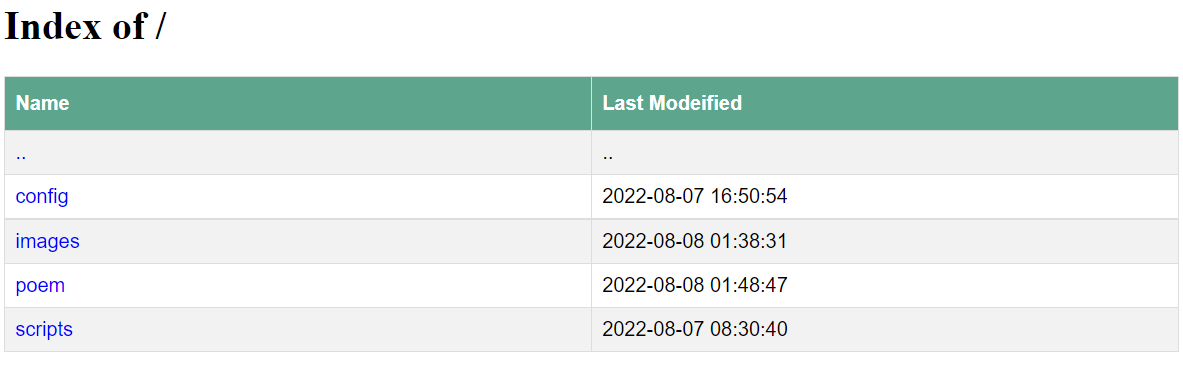
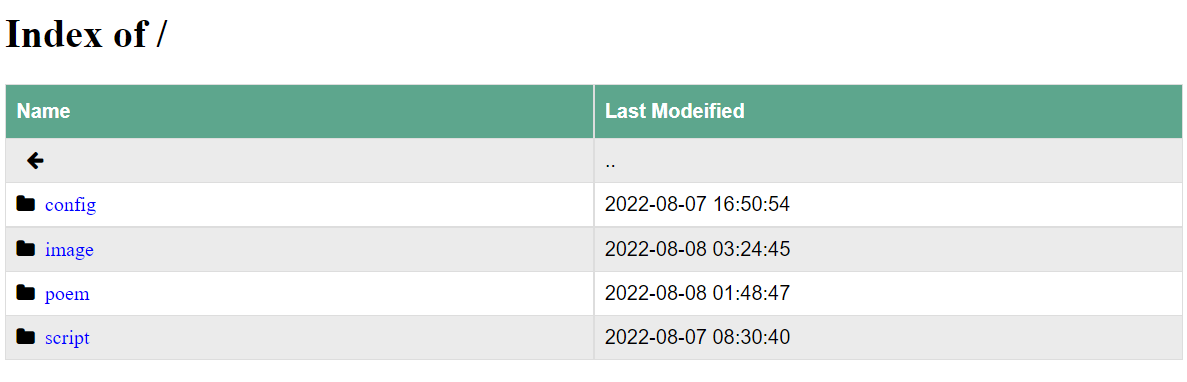
Beautify webpage

diff --git a/ghpages-fileserver.py b/ghpages-fileserver.py
@@ -4,8 +4,9 @@ import datetime
 
 src_path = './src/'
 public_path = './public/'
+image_path = './image/'
 all_files = {}
-index_head = '<!DOCTYPE html><html lang="en"><head><title>File Server</title><meta name="viewport" content="width=device-width, initial-scale=1" /><style>table {font-family: Arial, Helvetica, sans-serif;border-collapse: collapse;width: 100%;}table td,table th {border: 1px solid #ddd;padding: 8px;}table tr:nth-child(even) {background-color: #f2f2f2;}table th {padding-top: 12px;padding-bottom: 12px;text-align: left;background-color: #5da68d;color: white;}a {color: blue;text-decoration:none}</style></head><body><h1>Index of '
+index_head = '<!DOCTYPE html><html lang="en"><head><title>File Server</title><meta name="viewport" content="width=device-width, initial-scale=1" /><link rel="icon" type="image/png" href="favicon.png"><link rel="stylesheet" href="https://cdnjs.cloudflare.com/ajax/libs/font-awesome/4.7.0/css/font-awesome.min.css" /><style>table {font-family: Arial, Helvetica, sans-serif;border-collapse: collapse;width: 100%;}table td,table th {border: 1px solid #ddd;padding: 8px;}table tr:nth-child(even) {background-color: #ebebeb;}table th {padding-top: 12px;padding-bottom: 12px;text-align: left;background-color: #5da68d;color: white;}a {color: blue;text-decoration:none;padding: 8px;}</style></head><body><h1>Index of '
 
 
 # Get all directroy files
@@ -16,6 +17,7 @@ def get_files(path):
             get_files(path+file+'/')
 
 
+# Copy files
 get_files(src_path)
 if os.path.exists(public_path):
     shutil.rmtree(os.getcwd()+public_path)
@@ -29,33 +31,36 @@ for dir in all_files.keys():
     else:
         if not os.path.exists(dir.replace(src_path, public_path)):
             os.makedirs(dir.replace(src_path, public_path))
+    if not os.path.exists(dir.replace(src_path, public_path)+'favicon.png'):
+        shutil.copyfile(os.getcwd()+'/'+image_path+'favicon.png',
+                        os.getcwd()+'/'+dir.replace(src_path, public_path)+'favicon.png')
 
 # Generate html files
 for dir in all_files.keys():
     # Table header
     index = index_head + dir.replace(src_path, '/') + \
-        '</h1><table><tbody><tr><th style="width:50%">Name</th><th>Last Modeified</th></tr>'
+        '</h1><table><tr><th style="width:50%">Name</th><th>Last Modeified</th></tr>'
 
     # Add return link
     if len(dir.split('/')) == 3:
-        index += '<tr><td><a href="./index.html">..</a></td><td>..</td></tr>'
+        index += '<tr><td><a href="./index.html" style="color: black"><i class="fa fa-arrow-left"></i></a></td><td>..</td></tr>'
     else:
-        index += '<tr><td><a href="../index.html">..</a></td><td>..</td></tr>'
+        index += '<tr><td><a href="../index.html" style="color: black"><i class="fa fa-arrow-left"></a></td><td>..</td></tr>'
 
     # Table body
     for file in all_files[dir]:
         # Next Folder Link
         if os.path.isdir(dir+file):
-            index += '<tr><td><a href="./'+file+'/' + \
+            index += '<tr><td><i class="fa fa-folder"><a href="./'+file+'/' + \
                 'index.html">'+file+'</a></td><td>'
         # Currnet file link
         else:
-            index += '<tr><td><a href="./'+file+'">'+file+'</a></td><td>'
+            index += '<tr><td><i class="fa fa-file"><a href="./'+file+'">'+file+'</a></td><td>'
         # Modified time link
         index += str(datetime.datetime.utcfromtimestamp(
             os.path.getmtime(dir+file)).strftime('%Y-%m-%d %H:%M:%S'))
         index += '</td></tr>'
-    index += '</tbody></table></body></html>'
+    index += '</table></body></html>'
     # Write file
     if len(dir.split('/')) == 3:
         with open('./public/index.html', "w") as outfile:

diff --git a/README.md b/README.md
@@ -5,11 +5,9 @@
 
 A simple file server which runs on github pages.
 
-Remember, this project is only for experiment, do not abuse github pages server. Be aware of that github already have offerred us many free services!
+Remember, this project is only for experiment, do not abuse github pages server. Github already has offerred us many free services!
 
-And do not put too big files in your folder, otherwise it will take a long to load!
-
-![Demo](./image/demo.png)
+And do not put too big files in your folder, otherwise it will take a long time to load!
 
 ## 2. How to Use
 
@@ -19,9 +17,11 @@ You should put all your files you want to serve on github pages in `src` folder,
 python ghpages-fileserver.py
 ```
 
-It will generate a `public` folder contains all your fils and some html files. You can directly open these html files in your browser.
+It will generate a `public` folder contains all your files and some html files. You can directly open these html files in your browser.
 
 > Demo: [https://mraddict.one/ghpages-fileserver](https://mr-addict.github.io/ghpages-fileserver)
+
+![Demo](./image/demo.png)
 
 ## 3. Have a Try
 
@@ -31,7 +31,7 @@ You can fork my repo and it will automatic generate a github pages smililar to t
 https://username.github.io/ghpages-fileserver
 ```
 
-Do not forget to enable github pages on your project after actions build finish:
+Do not forget to enable github pages on your project after actions finished building:
 
 ![Enable-github-pages](./image/enable-ghpages.png)
 
